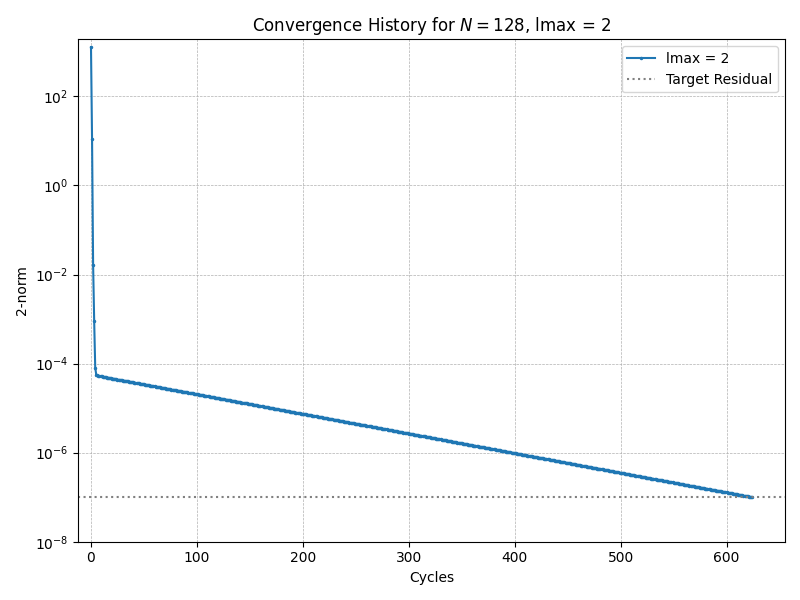
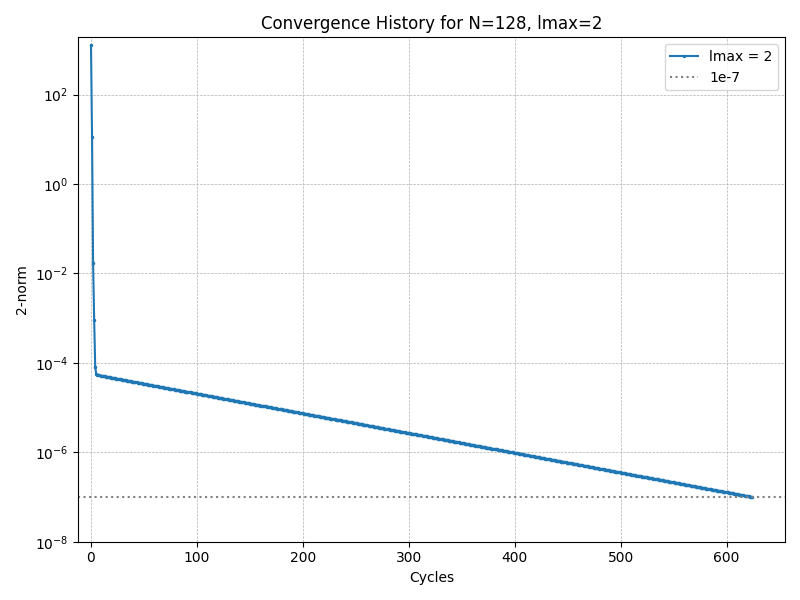
final commit

diff --git a/scripts/plot.py b/scripts/plot.py
@@ -17,7 +17,7 @@ df_summary = pd.read_csv(SUMMARY_FILE)
 df_residuals = pd.read_csv(RESIDUALS_FILE)
 
 fig1, (ax1a, ax1b) = plt.subplots(1, 2, figsize=(12, 5))
-fig1.suptitle(r"Performance vs. Number of Levels ($N=128$)")
+fig1.suptitle(r"Performance vs. Number of Levels (N=128)")
 
 ax1a.plot(df_summary["Levels"], df_summary["Cycles"], marker="o", linestyle="-")
 ax1a.set_xlabel("lmax")
@@ -68,11 +68,11 @@ for lmax_val in available_lmax_values:
             color="grey",
             linestyle=":",
             linewidth=1.5,
-            label="Target Residual",
+            label="1e-7",
         )
         plt.xlabel("Cycles")
         plt.ylabel("2-norm")
-        plt.title(rf"Convergence History for $N=128$, lmax = {lmax_val}")
+        plt.title(rf"Convergence History for N=128, lmax={lmax_val}")
 
         max_cycles = df_lmax_conv["CycleIteration"].max()
         min_resid = df_lmax_conv["ResidualNorm"].min()
@@ -114,16 +114,16 @@ ax2a.plot(
     df_2level["Cycles"],
     marker="o",
     linestyle="-",
-    label="2-Level",
+    label="2-level",
 )
 ax2a.plot(
     df_maxlevel["N"],
     df_maxlevel["Cycles"],
     marker="s",
     linestyle="--",
-    label="Max-Level (N=8 Coarsest)",
+    label="max-level",
 )
-ax2a.set_xlabel("Grid Size (N_interior)")
+ax2a.set_xlabel("Size")
 ax2a.set_ylabel("Cycles")
 ax2a.set_title("Cycles vs. Grid Size")
 ax2a.set_xscale("log", base=2)
@@ -137,16 +137,16 @@ ax2b.plot(
     df_2level["Runtime"],
     marker="o",
     linestyle="-",
-    label="2-Level",
+    label="2-level",
 )
 ax2b.plot(
     df_maxlevel["N"],
     df_maxlevel["Runtime"],
     marker="s",
     linestyle="--",
-    label="Max-Level (N=8 Coarsest)",
+    label="max-level",
 )
-ax2b.set_xlabel("Grid Size (N_interior)")
+ax2b.set_xlabel("Size")
 ax2b.set_ylabel("Runtime (s)")
 ax2b.set_title("Runtime vs. Grid Size")
 ax2b.set_xscale("log", base=2)

diff --git a/README.md b/README.md
@@ -1,6 +1,20 @@
-# mg: A Multigrid Solver for the Poisson Equation
+# mg: A Multigrid Solver for the Poisson Equation <!-- omit from toc -->
 
 This document outlines the structure, compilation, execution, and implementation details for the multigrid solver for the Poisson equation.
+
+- [Folder Structure](#folder-structure)
+- [How to Compile and Run](#how-to-compile-and-run)
+- [Code Explanation](#code-explanation)
+  - [smooth Function](#smooth-function)
+  - [residual Function](#residual-function)
+  - [restriction Function](#restriction-function)
+  - [prolongate Function](#prolongate-function)
+  - [gauss Function](#gauss-function)
+  - [vcycle Function](#vcycle-function)
+- [Figure Explanations](#figure-explanations)
+  - [Performance vs. lmax](#performance-vs-lmax)
+  - [lmax Residual Histories](#lmax-residual-histories)
+  - [Performance Difference for Different Multigrid Strategies](#performance-difference-for-different-multigrid-strategies)
 
 ## Folder Structure
 
@@ -44,11 +58,11 @@ mg/
 
 A more detailed description of top-level files and folders follows:
 
-- data/:
-- figs/:
-- include/:
-- scripts/:
-- src/:
+- data/: Contains CSV files with timing information, residual values, and comparison data from different multigrid configurations.
+- figs/: Contains generated plots showing convergence behavior and performance metrics of the multigrid method.
+- include/: Contains header files defining data structures and function prototypes for the multigrid implementation.
+- scripts/: Contains a Python script for the visualization of results.
+- src/: Contains all source code files organized by functionality and specific tasks.s
 - README.md: This report file.
 
 ## How to Compile and Run
@@ -76,20 +90,150 @@ We explain how our implementation follows the pseudocode given while also explai
 
 ### smooth Function
 
+The smooth function implements the weighted Jacobi relaxation method for smoothing high-frequency error components. It is a crucial part of the multigrid algorithm as it effectively reduces high-frequency errors while being computationally inexpensive.
+
+The implementation performs omega iterations of the weighted Jacobi method, which works as follows:
+
+1. For each iteration, the current solution x is first copied to a temporary array, named temp, to ensure the updates don't affect other calculations within the same iteration.
+2. For each interior point, we calculate a new value as the weighted average of its four neighbors plus a scaled contribution from the right-hand side.
+3. The new value is then combined with the old value using the relaxation parameter omega to form the updated solution:
+
+    ```c
+    // Update interior points using a weighted average
+    for (int i = 1; i < n - 1; i++) {
+      for (int j = 1; j < n - 1; j++) {
+        double new = 0.25 * (temp[i - 1][j] + temp[i + 1][j] + temp[i][j - 1] +
+                             temp[i][j + 1] + h2 * b[i][j]);
+        x[i][j]    = (1.0 - omega) * temp[i][j] + omega * new;
+    ```
+
+    The relaxation parameter omega is crucial for convergence. In our implementation, we use omega=2/3 (as can be seen in src/q1/main.c and src/q2/main.c).
+
 ### residual Function
+
+The residual function computes the residual vector r=b-Ax and its 2-norm, which serves as our measure of convergence. For the Poisson equation, where A represents the discrete Laplacian operator, the residual calculation involves:
+
+1. For each interior point, computing the discrete Laplacian of the current solution x.
+2. Subtracting this from the right-hand side b to get the residual at that point.
+3. Computing the sum of squared residuals and taking its square root to get the 2-norm.
+
+The residual norm provides a quantitative measure of how close our current solution is to the true solution of the linear system. In our implementation, this norm is used to determine when to stop the iteration process.
 
 ### restriction Function
 
+The restriction function transfers the residual from a fine grid to a coarser grid. We implement full-weighting restriction.
+
+The full-weighting stencil uses a weighted average with the following weights:
+
+```math
+\begin{bmatrix}1/16&1/8&1/16\\1/8&1/4&1/8\\1/16&1/8&1/16\end{bmatrix}
+```
+
+This means that for each coarse grid point $(i,j)$, its value is a weighted average of nine points from the fine grid centered around $(2i,2j)$. The center point gets a weight of 1/4, the adjacent points (horizontally and vertically) get weights of 1/8, and the diagonal points get weights of 1/16.
+
 ### prolongate Function
+
+The prolongate function transfers a correction from a coarse grid to a fine grid using bilinear interpolation. This operation is the transpose of the restriction operation and is essential for propagating corrections computed on coarser grids back to finer grids.
+
+The implementation follows these steps:
+
+1. Copy the coarse grid values to coincident fine grid points (where both coarse and fine grids have points).
+2. Interpolate horizontally for fine grid points that lie between coarse grid points horizontally.
+3. Interpolate vertically for fine grid points that lie between coarse grid points vertically.
+4. Interpolate diagonally for fine grid points that lie in the center of four coarse grid points.
+
+This approach ensures smooth interpolation of corrections, which is critical for maintaining the accuracy of the multigrid method.
 
 ### gauss Function
 
+The gauss function implements the Gauss-Seidel iterative method to solve the linear system on the coarsest grid. On this level, direct solution or a highly converged iterative solution is needed since errors on the coarsest grid affect all finer grids.
+
+The implementation:
+
+1. Initializes the solution array to zero.
+2. Iteratively updates each interior point using the most recent values of neighboring points.
+3. Continues until either convergence is reached (maximum change in any point less than a tolerance) or a maximum number of iterations is reached.
+
+Using Gauss-Seidel at the coarsest level is efficient because:
+
+- The coarsest grid is small, making even many iterations relatively inexpensive.
+- Gauss-Seidel converges faster than Jacobi and is more stable.
+- The method naturally handles the boundary conditions imposed by the problem.
+
 ### vcycle Function
+
+The vcycle function is the core of the multigrid method, implementing the recursive algorithm as described in the assignment. It follows these steps:
+
+1. Apply pre-smoothing to the current solution (using weighted Jacobi).
+2. Compute the residual of the current solution.
+3. If at the coarsest level:
+
+   - Solve the residual equation directly using Gauss-Seidel.
+   - Add the correction to the current solution.
+
+    Otherwise:
+
+   - Restrict the residual to the coarser grid.
+   - Recursively call vcycle on the coarser grid to get a correction.
+   - Prolongate the correction back to the current grid and add it to the solution.
+
+4. Apply post-smoothing to the updated solution.
+
+This implementation closely follows the pseudocode provided in the assignment, with appropriate adaptations for our data structures and boundary conditions.
+
+The recursion continues until reaching the coarsest level, where we solve exactly using Gauss-Seidel. After computing corrections on each level, we propagate them back up through the grid hierarchy, applying smoothing at each step to eliminate new high-frequency errors introduced by the interpolation.
 
 ## Figure Explanations
 
 ### Performance vs. lmax
 
+![](figs/q1_perf-vs-lmax.png)
+
+This figure shows how the performance of the multigrid solver varies with the number of levels (lmax) for a fixed grid size of N=128. It consists of two plots:
+
+- **Cycles vs. Levels**: This plot demonstrates how the number of cycles required to reach the target residual decreases dramatically as more grid levels are used. With lmax=2, the solver requires over 600 cycles, but this drops to around 127 cycles with lmax=3 and continues to decrease to approximately 15 cycles with lmax=7. The most significant improvement occurs when moving from two to three levels, illustrating the power of the multilevel approach.
+- **Runtime vs. Levels**: This plot shows the actual computation time needed to reach convergence. The runtime improves from approximately 0.19 seconds with a 2-level method to around 0.003 seconds with a 5-level or higher configuration. While the runtime curve follows the cycles curve, it also accounts for the overhead of managing multiple grid levels.
+
+Both plots demonstrate that while a 2-level approach works, it requires significantly more cycles and time than a true multigrid approach with three or more levels. For N=128, the optimal configuration appears to be five or six levels, where further increases in the number of levels provide diminishing returns.
+
 ### lmax Residual Histories
 
+<p float="left">
+  <img src="figs/q1_residuals-lmax2.png" width="49%" />
+  <img src="figs/q1_residuals-lmax3.png" width="49%" />
+</p>
+
+For lmax=2, we observe a slow, nearly linear convergence requiring about 600 cycles to reach the target residual (dotted line). There's an initial sharp drop followed by much slower convergence.
+
+For lmax=3, convergence is much faster, requiring only about 127 cycles. While still showing an initial drop followed by slower convergence, the overall slope is steeper, indicating more efficient error reduction per cycle.
+
+<p float="left">
+  <img src="figs/q1_residuals-lmax4.png" width="49%" />
+  <img src="figs/q1_residuals-lmax5.png" width="49%" />
+</p>
+
+With lmax=4, convergence accelerates further, requiring only about 31 cycles. The plot shows a very sharp initial drop in residual, followed by a more gradual convergence to the target.
+
+The lmax=5 configuration converges in just 14 cycles. The convergence is nearly linear on the log scale, indicating a consistent reduction factor in the error at each cycle, which is a characteristic of an optimal multigrid implementation.
+
+<p float="left">
+  <img src="figs/q1_residuals-lmax6.png" width="49%" />
+  <img src="figs/q1_residuals-lmax7.png" width="49%" />
+</p>
+
+The lmax=6 plot shows similar behavior to lmax=5, converging in about 13 cycles with a nearly linear reduction in the residual on the log scale.
+
+Interestingly, lmax=7 takes slightly more cycles (about 15) than lmax=6, despite having more levels. The initial residual is higher than in other configurations, but the convergence rate remains excellent with a consistent slope on the log scale.
+
+These plots visually demonstrate that the convergence rate of multigrid methods can be made nearly independent of the grid size with proper implementation.
+
 ### Performance Difference for Different Multigrid Strategies
+
+![](figs/q2_comparison.png)
+
+The comparison includes:
+
+- **Cycles vs. Grid Size**: The 2-level method shows dramatic growth in required cycles as the grid size increases, from eight cycles at N=16 to over 3200 cycles at N=256. In stark contrast, the max-level approach maintains a nearly constant cycle count (between eight to 13 cycles) regardless of grid size, demonstrating the grid-size independence of properly implemented multigrid methods.
+- **Runtime vs. Grid Size**: Shown on a logarithmic scale, this plot highlights the computational efficiency difference. At N=256, the max-level method is approximately 350 times faster than the 2-level method. The 2-level method exhibits worse than O(N^2) scaling, while the max-level approach maintains much closer to O(NlogN) scaling.
+
+This comparison clearly demonstrates the superior scalability of the full multigrid approach.
